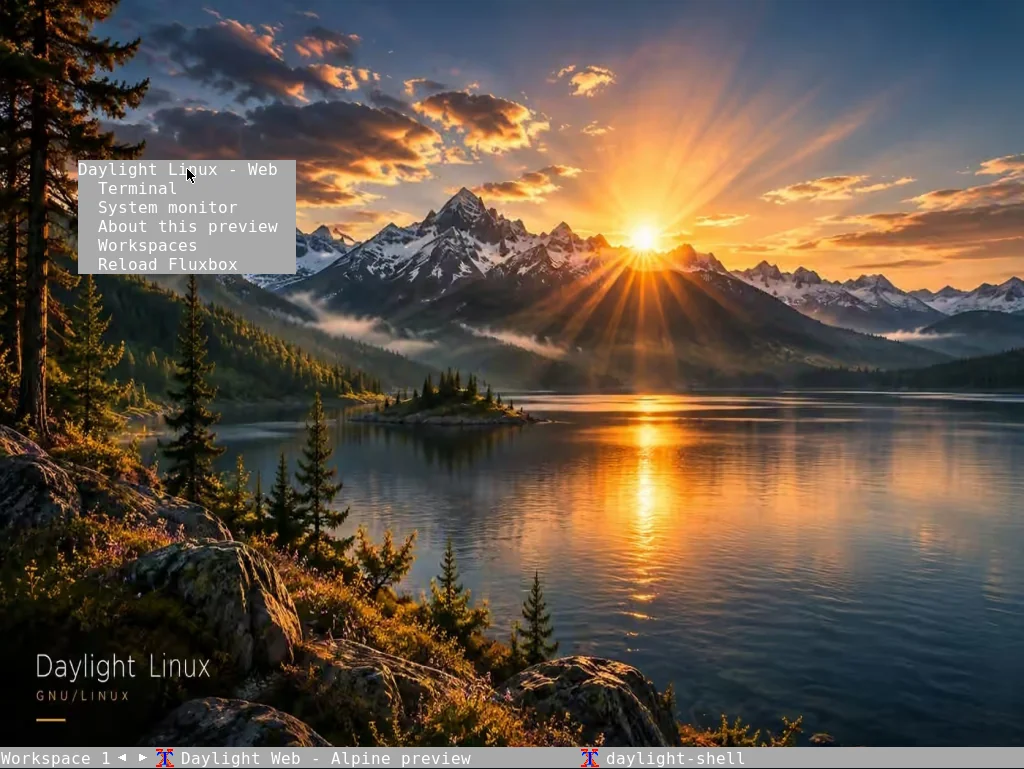
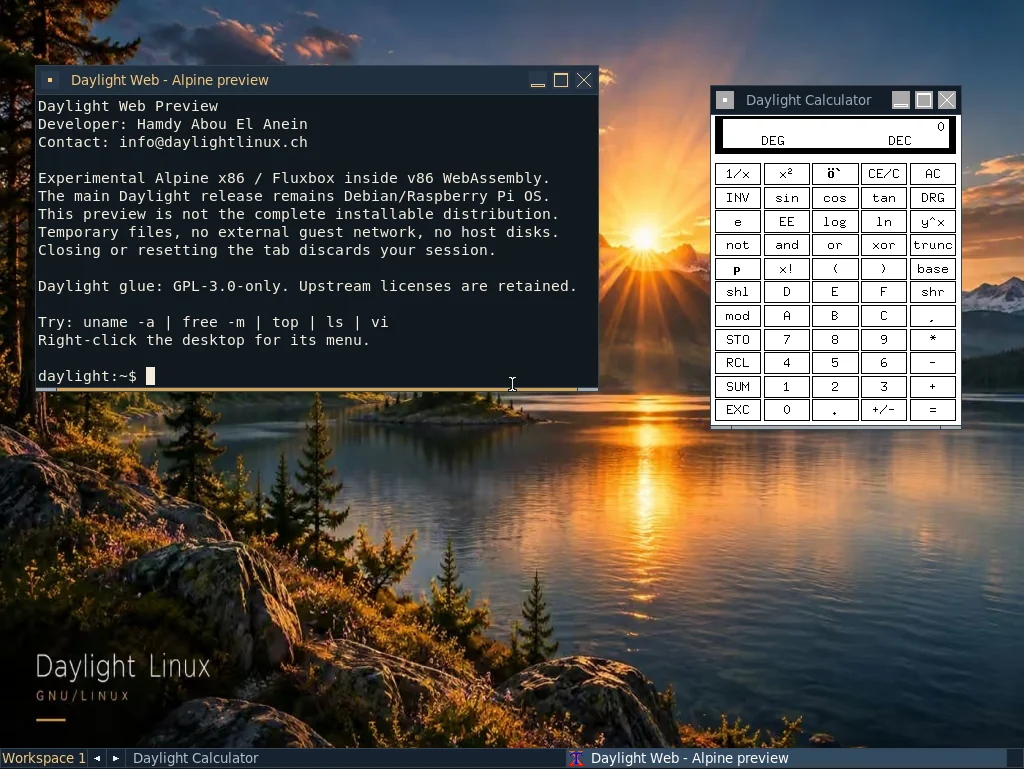
Publish native graphical applications and verified bounded transport recovery [skip ci]

diff --git a/web-live/demo.js b/web-live/demo.js
@@ -6,7 +6,7 @@ let emulator=null, generation=0, controller=null, state='idle', deadline=null, l
 let lang=new URLSearchParams(location.search).get('lang')==='en'?'en':'fr';
 const $=id=>document.getElementById(id);
 const text=(fr,en)=>lang==='fr'?fr:en;
-const english={title:'A real Linux desktop.<br>Inside your browser.',intro:'A lightweight, temporary preview of the Daylight spirit. Computing happens on your device, not on our Raspberry Pi.','scope-title':'A preview, not the complete distribution.',scope:'This experimental edition uses Alpine Linux x86 and Fluxbox. Daylight for Raspberry Pi remains based on Debian / Raspberry Pi OS ARM64. This preview does not include all of its Rust tools.',instructions:'Click inside the desktop to use the keyboard. Move windows by their title bar. Right-click the wallpaper or use Linux menu for Fluxbox. Try uname, free, top, ls and vi in the terminal.','privacy-title':'Your session stays local',privacy:'No account, no disk shared with our server, no external guest-network relay and no telemetry. Demo files download over HTTPS; the host sees that connection like any webpage request.','temporary-title':'Nothing to install',temporary:'Changes are temporary: closing, stopping or restarting discards the session. Do not enter passwords or sensitive data. The demo pauses when its tab is hidden and stops after 20 minutes.','requirements-title':'A bounded preview',requirements:'The Linux guest receives 256 MiB of RAM; the browser also needs its own memory. Startup depends on your device and connection. No public container runs on our Pi.','technical-title':'Technical details and licenses',technical:'Linux is actually emulated in WebAssembly using v86. This is not an interactive screenshot. The guest has no external network relay. Free-software components retain their own licenses.',cta:'Ready to use Daylight on your Raspberry Pi?','placeholder-text':'Your session starts here.'};
+const english={title:'A real Linux desktop.<br>Inside your browser.',intro:'A lightweight, temporary preview of the Daylight spirit. Computing happens on your device, not on our Raspberry Pi.','scope-title':'A preview, not the complete distribution.',scope:'This experimental edition uses Alpine Linux x86 and Fluxbox. Daylight for Raspberry Pi remains based on Debian / Raspberry Pi OS ARM64. This preview does not include all of its Rust tools.',instructions:'Click inside the desktop to use the keyboard. Move windows by their title bar. Right-click the wallpaper or use Linux menu for Fluxbox. Try the real graphical calculator, or use uname, free, top, ls and vi in the terminal.','privacy-title':'Your session stays local',privacy:'No account, no disk shared with our server, no external guest-network relay and no telemetry. Demo files download over HTTPS; the host sees that connection like any webpage request.','temporary-title':'Nothing to install',temporary:'Changes are temporary: closing, stopping or restarting discards the session. Do not enter passwords or sensitive data. The demo pauses when its tab is hidden and stops after 20 minutes.','requirements-title':'A bounded preview',requirements:'The Linux guest receives 256 MiB of RAM; the browser also needs its own memory. Startup depends on your device and connection. No public container runs on our Pi.','technical-title':'Technical details and licenses',technical:'Linux is actually emulated in WebAssembly using v86. This is not an interactive screenshot. The guest has no external network relay. Free-software components retain their own licenses.',cta:'Ready to use Daylight on your Raspberry Pi?','placeholder-text':'Your session starts here.'};
 const original=Object.fromEntries(Object.keys(english).map(id=>[id,$(id).innerHTML]));
 function labels(){
  document.documentElement.lang=lang;
@@ -15,7 +15,7 @@ function labels(){
  for(const [id,value] of Object.entries(lang==='en'?english:original))$(id).innerHTML=value;
  $('language').textContent=lang==='fr'?'English':'Français';
  $('start').textContent=text('Démarrer la démo','Start the demo');
- $('desktop').textContent=text('Bureau','Desktop');$('menu').textContent=text('Menu Linux','Linux menu');$('terminal').textContent='Terminal';
+ $('desktop').textContent=text('Bureau','Desktop');$('menu').textContent=text('Menu Linux','Linux menu');$('terminal').textContent='Terminal';$('calculator').textContent=text('Calculatrice','Calculator');$('about').textContent=text('À propos','About');
  $('display').setAttribute('aria-label',text('Bureau Linux interactif','Interactive Linux desktop'));
  $('pause').textContent=state==='paused'?text('Reprendre','Resume'):text('Pause','Pause');
  $('reset').textContent=text('Recommencer','Restart');$('stop').textContent=text('Arrêter','Stop');$('fullscreen').textContent=text('Plein écran','Fullscreen');
@@ -29,7 +29,7 @@ function setState(value){
  $('pause').disabled=!['running','paused'].includes(value);
  $('reset').disabled=!['running','paused','error'].includes(value);
  $('fullscreen').disabled=!['running','paused'].includes(value)||!$('display').requestFullscreen;
- for(const id of ['desktop','menu','terminal'])$(id).disabled=value!=='running';
+ for(const id of ['desktop','menu','terminal','calculator','about'])$(id).disabled=value!=='running';
  labels();
 }
 function hex(bytes){return Array.from(bytes,b=>b.toString(16).padStart(2,'0')).join('');}
@@ -37,14 +37,33 @@ async function verified(name,record,signal,onProgress){
  if(!/^[a-zA-Z0-9_.-]+$/.test(name)||!record||!Number.isSafeInteger(record.bytes)||record.bytes<1||record.bytes>100000000||!/^[a-f0-9]{64}$/.test(record.sha256))throw Error('Invalid asset manifest');
  const file=record.file||name;
  if(!/^[a-zA-Z0-9_.-]+$/.test(file))throw Error('Invalid asset filename');
- const response=await fetch(file+'?sha256='+record.sha256,{credentials:'omit',signal,cache:'force-cache'});
- if(!response.ok)throw Error('HTTP '+response.status+' for '+name);
- const reader=response.body.getReader();const chunks=[];let length=0;
- while(true){const {done,value}=await reader.read();if(done)break;length+=value.length;if(length>record.bytes)throw Error('Unexpected asset size');chunks.push(value);onProgress(value.length);}
- if(length!==record.bytes)throw Error('Incomplete asset: '+name);
- const bytes=new Uint8Array(length);let offset=0;for(const chunk of chunks){bytes.set(chunk,offset);offset+=chunk.length;}
- if(hex(new Uint8Array(await crypto.subtle.digest('SHA-256',bytes)))!==record.sha256)throw Error('Asset integrity check failed: '+name);
- return bytes.buffer;
+ // Retry transport failures only, never a bad hash or an oversized payload.
+ for(let attempt=0;attempt<3;attempt++){
+  if(signal.aborted)throw new DOMException('Cancelled','AbortError');
+  const transfer=new AbortController();
+  const cancel=()=>transfer.abort();signal.addEventListener('abort',cancel,{once:true});
+  const timeout=setTimeout(()=>transfer.abort(),90000);
+  let length=0;
+  try{
+   const response=await fetch(file+'?sha256='+record.sha256,{credentials:'omit',signal:transfer.signal,cache:'force-cache'});
+   if(!response.ok){const error=Error('HTTP '+response.status+' for '+name);error.retryable=[408,429,500,502,503,504].includes(response.status);throw error;}
+   if(!response.body)throw Error('Empty response body: '+name);
+   const reader=response.body.getReader();const chunks=[];
+   while(true){const {done,value}=await reader.read();if(done)break;if(length+value.length>record.bytes){await reader.cancel();throw Error('Unexpected asset size');}length+=value.length;chunks.push(value);onProgress(value.length);}
+   if(length!==record.bytes){const error=Error('Incomplete asset: '+name);error.retryable=true;throw error;}
+   const bytes=new Uint8Array(length);let offset=0;for(const chunk of chunks){bytes.set(chunk,offset);offset+=chunk.length;}
+   if(hex(new Uint8Array(await crypto.subtle.digest('SHA-256',bytes)))!==record.sha256)throw Error('Asset integrity check failed: '+name);
+   return bytes.buffer;
+  }catch(error){
+   if(signal.aborted)throw new DOMException('Cancelled','AbortError');
+   const network=error instanceof TypeError||error.name==='AbortError'||error.retryable===true;
+   if(!network)throw error;
+   if(attempt===2)throw Error(text('Connexion interrompue après trois essais. Vérifiez le réseau puis cliquez sur Recommencer.','Connection interrupted after three attempts. Check your network and select Restart.'));
+   if(length)onProgress(-length);
+   status(text('Connexion interrompue. Nouvel essai ','Connection interrupted. Retrying ')+(attempt+2)+'/3…');
+   await new Promise(resolve=>setTimeout(resolve,500*(attempt+1)));
+  }finally{clearTimeout(timeout);signal.removeEventListener('abort',cancel);}
+ }
 }
 async function library(manifest){
  if(window.V86)return;
@@ -118,6 +137,8 @@ function guestShortcut(code){
 $('desktop').addEventListener('click',()=>guestShortcut(0x20));
 $('menu').addEventListener('click',()=>guestShortcut(0x39));
 $('terminal').addEventListener('click',()=>guestShortcut(0x1C));
+$('calculator').addEventListener('click',()=>guestShortcut(0x2E));
+$('about').addEventListener('click',()=>guestShortcut(0x17));
 $('start').addEventListener('click',start);$('stop').addEventListener('click',stop);$('pause').addEventListener('click',pause);
 $('reset').addEventListener('click',async()=>{await stop();await start();});
 $('fullscreen').addEventListener('click',()=>{$('display').requestFullscreen().catch(error=>status(error.message));});

diff --git a/web-live/index.html b/web-live/index.html
@@ -4,10 +4,10 @@
 <body><header><a href="/fr/">Daylight GNU/Linux</a><nav><a href="/fr/raspberry-pi.html">Raspberry Pi</a><a href="/fr/install.html">Installer</a><button id="language" type="button">English</button></nav></header><main>
 <p class="eyebrow">ALPINE / FLUXBOX / WEBASSEMBLY</p><h1 id="title">Un vrai bureau Linux.<br>Dans votre navigateur.</h1><p id="intro" class="lead">Une démo légère et temporaire pour découvrir l’esprit Daylight. Le calcul s’exécute sur votre appareil, pas sur notre Raspberry Pi.</p>
 <div class="notice"><strong id="scope-title">Un aperçu, pas la distribution complète.</strong><p id="scope">Cette édition expérimentale repose sur Alpine Linux x86 et Fluxbox. Daylight pour Raspberry Pi reste basé sur Debian / Raspberry Pi OS ARM64. Cette démo n’inclut pas tous ses outils Rust.</p></div>
-<div class="toolbar"><button id="start" type="button">Démarrer la démo</button><button id="desktop" type="button" disabled>Bureau</button><button id="menu" type="button" disabled>Menu Linux</button><button id="terminal" type="button" disabled>Terminal</button><button id="pause" type="button" disabled>Pause</button><button id="reset" type="button" disabled>Recommencer</button><button id="stop" type="button" disabled>Arrêter</button><button id="fullscreen" type="button" disabled>Plein écran</button></div>
+<div class="toolbar"><button id="start" type="button">Démarrer la démo</button><button id="desktop" type="button" disabled>Bureau</button><button id="menu" type="button" disabled>Menu Linux</button><button id="terminal" type="button" disabled>Terminal</button><button id="calculator" type="button" disabled>Calculatrice</button><button id="about" type="button" disabled>À propos</button><button id="pause" type="button" disabled>Pause</button><button id="reset" type="button" disabled>Recommencer</button><button id="stop" type="button" disabled>Arrêter</button><button id="fullscreen" type="button" disabled>Plein écran</button></div>
 <p id="status" role="status" aria-live="polite">Aucun système n’est lancé avant votre clic. Environ 42 Mo à télécharger. Navigateur récent et ordinateur avec clavier recommandés.</p><progress id="progress" max="100" value="0" hidden></progress>
 <div id="display" class="display" tabindex="0" aria-label="Bureau Linux interactif"><div id="placeholder"><span>DAYLIGHT WEB</span><p id="placeholder-text">Votre session démarre ici.</p></div><div id="screen"><div class="text-screen"></div><canvas></canvas></div></div>
-<p id="instructions" class="help">Cliquez dans le bureau pour utiliser le clavier. Déplacez les fenêtres par leur titre. Clic droit sur le fond ou bouton Menu Linux : menu Fluxbox. Le terminal permet de tester uname, free, top, ls et vi.</p>
+<p id="instructions" class="help">Cliquez dans le bureau pour utiliser le clavier. Déplacez les fenêtres par leur titre. Clic droit sur le fond ou bouton Menu Linux : menu Fluxbox. Déplacez les fenêtres par leur barre de titre. La calculatrice est une vraie application graphique ; le terminal permet aussi de tester uname, free, top, ls et vi.</p>
 <section class="facts"><article><h2 id="privacy-title">Votre session reste locale</h2><p id="privacy">Pas de compte, pas de disque partagé avec le serveur, pas de relais réseau pour le système invité et pas de télémétrie. Les fichiers de la démo se téléchargent par HTTPS ; le serveur voit cette connexion comme pour une page web.</p></article><article><h2 id="temporary-title">Rien à installer</h2><p id="temporary">Les changements sont temporaires : fermer, arrêter ou recommencer détruit la session. N’y saisissez pas de mots de passe ou de données sensibles. La démo se met en pause lorsque l’onglet est masqué et se ferme après 20 minutes.</p></article><article><h2 id="requirements-title">Une démo raisonnable</h2><p id="requirements">256 Mio de mémoire sont attribués au Linux invité ; le navigateur utilise aussi sa propre mémoire. Le démarrage dépend de votre appareil et du réseau. Aucun conteneur public ne tourne sur notre Pi.</p></article></section>
 <details><summary id="technical-title">Détails et licences</summary><p id="technical">Linux est réellement émulé dans WebAssembly avec v86. Il ne s’agit pas d’une capture d’écran interactive. Le réseau externe du système invité est déconnecté. Les bibliothèques et systèmes libres gardent leurs licences.</p><p><a href="manifest.json">Manifest / SHA256</a> · <a href="packages.json">Alpine package provenance</a> · <a href="SOURCES.txt">Sources &amp; licenses</a> · <a href="https://github.com/hamdyaea/Daylight-GNU-Linux/tree/master/web-live">Daylight build recipe</a></p></details>
 <p class="cta"><a class="button" href="/fr/raspberry-pi.html" id="cta">Envie de l’utiliser sur votre Raspberry Pi ?</a></p></main><footer>Hamdy Abou El Anein · <a href="mailto:info@daylightlinux.ch">info@daylightlinux.ch</a> · <a href="/fr/privacy.html">Confidentialité</a></footer></body></html>

diff --git a/website/discovery.py b/website/discovery.py
@@ -196,11 +196,11 @@ def enhance(out, release, evidence=None):
         bodies['try-online.html'] = head(
             T('Un bureau Linux dans une fenêtre.', 'A Linux desktop inside a window.'),
             T('Ouvrez la démo, puis cliquez sur Démarrer. Aucun compte GitHub, aucune installation, aucun terminal à configurer.', 'Open the demo, then click Start. No GitHub account, no installation and no terminal setup.'))
-        bodies['try-online.html'] += section('<article class="card featured"><p class="tag">ALPINE + FLUXBOX / WEBASSEMBLY</p><h2>' + T('Un véritable bureau graphique, pas une imitation.', 'A real graphical desktop, not an imitation.') + '</h2>' + para(T('Retrouvez le paysage Daylight, des fenêtres déplaçables, la barre des tâches, un menu et un terminal. Les boutons Bureau, Menu Linux et Terminal facilitent la découverte.', 'Explore the Daylight landscape, movable windows, taskbar, menu and terminal. Desktop, Linux menu and Terminal buttons make it easier to get started.'), 'lead') + '<div class="actions">' + launch + '</div>' + para(T('Le système démarre uniquement après votre clic : environ 42 Mo à télécharger et 256 Mio de RAM pour le Linux invité, plus les besoins du navigateur. Ordinateur et clavier recommandés.', 'The system starts only after your click: about 42 MB to download and 256 MiB RAM for the Linux guest, plus browser overhead. A computer and keyboard are recommended.'), 'small note') + '</article>')
+        bodies['try-online.html'] += section('<article class="card featured"><p class="tag">ALPINE + FLUXBOX / WEBASSEMBLY</p><h2>' + T('Un véritable bureau graphique, pas une imitation.', 'A real graphical desktop, not an imitation.') + '</h2>' + para(T('Retrouvez le paysage Daylight, des fenêtres déplaçables, la barre des tâches, un menu, un terminal et une véritable calculatrice graphique. Les boutons Bureau, Menu Linux, Terminal, Calculatrice et À propos facilitent la découverte.', 'Explore the Daylight landscape, movable windows, taskbar, menu, terminal and a real graphical calculator. Desktop, Linux menu, Terminal, Calculator and About buttons make it easier to get started.'), 'lead') + '<div class="actions">' + launch + '</div>' + para(T('Le système démarre uniquement après votre clic : environ 42 Mo à télécharger et 256 Mio de RAM pour le Linux invité, plus les besoins du navigateur. Ordinateur et clavier recommandés.', 'The system starts only after your click: about 42 MB to download and 256 MiB RAM for the Linux guest, plus browser overhead. A computer and keyboard are recommended.'), 'small note') + '</article>')
         preview = ROOT / 'website/assets/web-live-preview.webp'
         if preview.is_file():
             shutil.copyfile(preview, out / 'media/web-live-preview.webp')
-            bodies['try-online.html'] += section('<figure class="shot"><img src="/media/web-live-preview.webp" alt="' + T('Capture réelle du bureau Alpine et du menu Fluxbox dans la démo web', 'Actual Alpine desktop and Fluxbox menu in the browser demo') + '" width="1024" height="768" loading="lazy"><figcaption>' + T('Capture réelle de la démo légère Alpine ; le système installé sur Raspberry Pi reste basé sur Debian.', 'Actual lightweight Alpine preview; the installable Raspberry Pi system remains Debian-based.') + '</figcaption></figure>')
+            bodies['try-online.html'] += section('<figure class="shot"><img src="/media/web-live-preview.webp" alt="' + T('Capture réelle du bureau Alpine, du terminal et de la calculatrice dans la démo web', 'Actual Alpine desktop, terminal and calculator in the browser demo') + '" width="1024" height="768" loading="lazy"><figcaption>' + T('Capture réelle de la démo légère Alpine ; le système installé sur Raspberry Pi reste basé sur Debian.', 'Actual lightweight Alpine preview; the installable Raspberry Pi system remains Debian-based.') + '</figcaption></figure>')
         bodies['try-online.html'] += section('<div class="grid two">' + card(T('Le calcul se fait chez vous.', 'Computing happens on your device.'), T('Le processeur et la mémoire utilisés sont ceux de votre navigateur. Notre Raspberry Pi distribue seulement des fichiers statiques : aucun conteneur ou bureau partagé public n’y est lancé.', 'CPU and memory come from your browser. Our Raspberry Pi only serves static files: it does not launch a public container or shared desktop.')) + card(T('Une session temporaire et isolée.', 'A temporary, isolated session.'), T('Pas de compte, pas de disque personnel partagé, pas de relais réseau externe pour l’invité et pas de télémétrie. Fermer, arrêter ou réinitialiser efface la session. N’y entrez pas de données sensibles.', 'No account, no shared personal disk, no external guest-network relay and no telemetry. Closing, stopping or resetting discards the session. Do not enter sensitive data.')) + '</div><div class="callout">' + esc(T('Cette démo expérimentale est un Alpine x86 allégé avec Fluxbox. Elle sert à découvrir l’esprit Daylight : ce n’est ni l’image Debian complète ni une émulation de Raspberry Pi, et elle n’inclut pas tous les outils Rust.', 'This experimental demo is a stripped-down Alpine x86 guest with Fluxbox. It introduces the Daylight experience: it is neither the complete Debian image nor Raspberry Pi emulation, and does not include every Rust tool.')) + '</div><div class="actions">' + button(L('raspberry-pi.html'),T('L’utiliser sur mon Raspberry Pi', 'Use it on my Raspberry Pi')) + button(L('download.html')+'#pc-live',T('Tester le live PC Debian complet', 'Try the full Debian PC live edition'),True) + '</div>')
         bodies['try-online.html'] += section('<details><summary>' + T('Option développeur : ISO complète dans un environnement privé', 'Developer option: full ISO in a private environment') + '</summary>' + para(T('Le parcours QEMU/noVNC ou Codespaces est facultatif. Codespaces ouvre un environnement de développement et demande un compte GitHub ; il peut occasionner des frais. Pour le bureau graphique public sans compte, utilisez le bouton ci-dessus.', 'QEMU/noVNC or Codespaces is optional. Codespaces opens a development environment and requires a GitHub account; charges may apply. For the public no-account graphical desktop, use the button above.')) + anchor(REPO+'/blob/master/demo/README.md',T('Documentation technique de l’option complète', 'Full-edition technical documentation')) + '</details>', 'prose')
         # Add session guidance and distinct anchors to the existing, verified installer guide.

diff --git a/web-live/test-public-access.py b/web-live/test-public-access.py
@@ -5,6 +5,8 @@
 """Read-only public access and signature checks. No host APT configuration is changed."""
 from datetime import datetime, timezone
 from email.utils import parsedate_to_datetime
+from html.parser import HTMLParser
+from urllib.parse import urljoin, urlsplit
 import hashlib
 import json
 from pathlib import Path
@@ -16,17 +18,41 @@ BASE='https://daylightlinux.ch'
 FPR='B0575F821A31DD20753DE07C50D21240F4BCB02E'
 
 
+def interface_paths(page, hashes):
+    """Return only exact, same-origin, fingerprinted resources referenced by HTML."""
+    class Resources(HTMLParser):
+        def __init__(self):
+            super().__init__(); self.urls=[]
+        def handle_starttag(self, tag, attrs):
+            values=dict(attrs)
+            if tag=='script' and values.get('src'): self.urls.append(values['src'])
+            if tag=='link' and values.get('rel')=='stylesheet': self.urls.append(values.get('href',''))
+    resources=Resources(); resources.feed(page.decode('utf-8'))
+    paths={}
+    for name, digest in hashes.items():
+        expected=BASE+'/live/'+name+'?v='+digest[:12]
+        matches=[urljoin(BASE+'/live/',value) for value in resources.urls if urlsplit(value).path.split('/')[-1]==name]
+        if matches!=[expected]: raise RuntimeError('Page references an unreviewed interface version: '+name)
+        paths[name]=expected[len(BASE):]
+    return paths
+
+
 def main():
     checks=[]
     with tempfile.TemporaryDirectory(prefix='daylight-public-check-') as temporary:
         work=Path(temporary)
         def get(path):
             target=work/('fetch-'+str(len(checks)))
-            run=subprocess.run(['curl','--disable','--fail','--silent','--show-error','--location','--proto','=https','--proto-redir','=https','--retry','2','--connect-timeout','10','--max-time','45','--max-filesize','2097152','--output',str(target),'--write-out','%{http_code} %{url_effective}',BASE+path],capture_output=True,text=True,timeout=150)
+            run=subprocess.run(['curl','--disable','--fail','--silent','--show-error','--location','--proto','=https','--proto-redir','=https','--retry','2','--connect-timeout','10','--max-time','45','--max-filesize','2097152','--dump-header',str(target)+'.headers','--output',str(target),'--write-out','%{http_code} %{url_effective}',BASE+path],capture_output=True,text=True,timeout=150)
             if run.returncode:raise RuntimeError(path+': '+run.stderr[-300:])
             status,url=run.stdout.split(' ',1)
             if status!='200' or not url.startswith(BASE+'/'):raise RuntimeError('Unexpected public route: '+path+' '+run.stdout)
-            data=target.read_bytes();checks.append({'path':path,'bytes':len(data),'status':int(status),'final_url':url})
+            data=target.read_bytes()
+            headers=Path(str(target)+'.headers').read_text().lower()
+            if 'content-type: text/html' in headers:
+                if 'no-transform' not in headers:raise RuntimeError('Public HTML permits proxy injection: '+path)
+                if b'static.cloudflareinsights.com' in data:raise RuntimeError('Unexpected analytics injection: '+path)
+            checks.append({'path':path,'bytes':len(data),'status':int(status),'final_url':url})
             return data
         landing=get('/apt')
         if b'daylight-archive-keyring.gpg' not in landing or b'binary-arm64/Packages' not in landing:raise RuntimeError('Missing APT landing-page links')
@@ -37,10 +63,12 @@ def main():
         public=json.loads(get('/live/manifest.json'))
         expected=json.loads((ROOT/'web-live/published-runtime.json').read_text())
         if public!=expected:raise RuntimeError('Public runtime differs from the source-pinned manifest')
-        for name in ['demo.js','demo.css']:
-            if hashlib.sha256(get('/live/'+name)).digest()!=hashlib.sha256((ROOT/'web-live'/name).read_bytes()).digest():raise RuntimeError('Public interface differs from reviewed source: '+name)
         page=get('/live/')
-        for marker in [b'id="desktop"',b'id="menu"',b'id="terminal"',b'id="screen"']:
+        # Follow the actual versioned resources, never stale compatibility URLs.
+        hashes={name:hashlib.sha256((ROOT/'web-live'/name).read_bytes()).hexdigest() for name in ('demo.js','demo.css')}
+        for name,path in interface_paths(page,hashes).items():
+            if hashlib.sha256(get(path)).hexdigest()!=hashes[name]:raise RuntimeError('Loaded public interface differs from reviewed source: '+name)
+        for marker in [b'id="desktop"',b'id="menu"',b'id="terminal"',b'id="calculator"',b'id="about"',b'id="screen"']:
             if marker not in page:raise RuntimeError('Missing graphical demo control')
         home=work/'gnupg';home.mkdir(mode=0o700)
         key=work/'archive.gpg';key.write_bytes(get('/apt/daylight-archive-keyring.gpg'))

diff --git a/web-live/prepare-root.py b/web-live/prepare-root.py
@@ -58,11 +58,15 @@ def main():
   if path.exists():path.chmod(mode)
   path.write_text(data);path.chmod(mode)
  shutil.copyfile(ROOT/'web-live/init',base/'init');(base/'init').chmod(0o755)
- write('root/.fluxbox/init',HEADER+'session.screen0.toolbar.tools: workspacename, prevwindow, nextwindow, iconbar, systemtray, clock\nsession.screen0.toolbar.widthPercent: 100\nsession.screen0.toolbar.placement: BottomCenter\nsession.screen0.workspaces: 2\nsession.menuFile: /root/.fluxbox/menu\nsession.keyFile: /root/.fluxbox/keys\nsession.styleFile: /usr/share/fluxbox/styles/Black\n')
- write('root/.fluxbox/menu',HEADER+'[begin] (Daylight Linux - Web)\n[exec] (Terminal) {xterm -bg "#10191f" -fg "#f5eddb" -fa "DejaVu Sans Mono" -fs 11 -e /usr/local/bin/daylight-shell}\n[exec] (System monitor) {xterm -title "System monitor" -e top}\n[exec] (About this preview) {xterm -hold -e cat /etc/daylight-preview}\n[workspaces] (Workspaces)\n[reconfig] (Reload Fluxbox)\n[end]\n')
- write('root/.fluxbox/keys',HEADER+'OnDesktop Mouse3 :RootMenu\nMod1 F4 :Close\nMod4 Return :Exec xterm -e /usr/local/bin/daylight-shell\nMod4 d :ShowDesktop\nMod4 space :RootMenu\n')
+ write('root/.fluxbox/init',HEADER+'session.screen0.toolbar.tools: workspacename, prevwindow, nextwindow, iconbar, systemtray, clock\nsession.screen0.toolbar.widthPercent: 100\nsession.screen0.toolbar.placement: BottomCenter\nsession.screen0.workspaces: 2\nsession.menuFile: /root/.fluxbox/menu\nsession.keyFile: /root/.fluxbox/keys\nsession.styleFile: /usr/share/daylight/fluxbox.style\n')
+ write('root/.fluxbox/menu',HEADER+'[begin] (Daylight Linux - Web)\n[exec] (Terminal) {xterm -bg "#10191f" -fg "#f5eddb" -fa "DejaVu Sans Mono" -fs 11 -e /usr/local/bin/daylight-shell}\n[exec] (System monitor) {xterm -title "System monitor" -e top}\n[exec] (Calculator) {xcalc -title "Daylight Calculator" -geometry 250x310+710+85}\n[exec] (About this preview) {/usr/local/bin/daylight-about}\n[workspaces] (Workspaces)\n[reconfig] (Reload Fluxbox)\n[end]\n')
+ write('root/.fluxbox/keys',HEADER+'OnDesktop Mouse3 :RootMenu\nMod1 F4 :Close\nMod4 Return :Exec xterm -e /usr/local/bin/daylight-shell\nMod4 d :ShowDesktop\nMod4 space :RootMenu\nMod4 c :Exec xcalc -title "Daylight Calculator" -geometry 250x310+710+85\nMod4 i :Exec /usr/local/bin/daylight-about\n')
  write('etc/daylight-preview','Daylight Web Preview\nDeveloper: Hamdy Abou El Anein\nContact: info@daylightlinux.ch\n\nExperimental Alpine x86 / Fluxbox inside v86 WebAssembly.\nThe main Daylight release remains Debian/Raspberry Pi OS.\nThis preview is not the complete installable distribution.\nTemporary files, no external guest network, no host disks.\nClosing or resetting the tab discards your session.\n\nDaylight glue: GPL-3.0-only. Upstream licenses are retained.\n')
  write('etc/resolv.conf','# No external guest network.\n')
+ write('usr/local/bin/daylight-about','#!/bin/sh\n'+HEADER+"exec xmessage -title 'About Daylight Web' -geometry 470x230+250+200 -bg '#172330' -fg '#f5eddb' -fn 'fixed' -buttons 'Close:0' -default Close -file /etc/daylight-preview\n",0o755)
+ style=base/'usr/share/daylight/fluxbox.style';style.parent.mkdir(parents=True,exist_ok=True)
+ shutil.copyfile(ROOT/'web-live/daylight.style',style)
+
  write('usr/local/bin/daylight-shell','#!/bin/sh\n'+HEADER+'''export HOME=/root TERM=xterm-256color PS1='daylight:~$ '
 clear
 printf '\\033[1;33m   /\\\\    DAYLIGHT LINUX\\n__/  \\\\__ WEB PREVIEW\\033[0m\\n\\n'

diff --git a/tests/test_web_live_interface.py b/tests/test_web_live_interface.py
@@ -1,0 +1,31 @@
+#!/usr/bin/env python3
+# Developer: Hamdy Abou El Anein
+# Contact: info@daylightlinux.ch
+# SPDX-License-Identifier: GPL-3.0-only
+"""Regression tests for CDN-versioned resources, without making network requests."""
+import importlib.util
+from pathlib import Path
+import unittest
+ROOT=Path(__file__).resolve().parent.parent
+spec=importlib.util.spec_from_file_location('public_access', ROOT/'web-live/test-public-access.py')
+module=importlib.util.module_from_spec(spec);spec.loader.exec_module(module)
+class Interface(unittest.TestCase):
+    def setUp(self):
+        self.hashes={'demo.js':'a'*64,'demo.css':'b'*64}
+        self.page=b'<script src="demo.js?v=aaaaaaaaaaaa"></script><link rel="stylesheet" href="demo.css?v=bbbbbbbbbbbb">'
+    def test_exact_version(self):
+        self.assertEqual(module.interface_paths(self.page,self.hashes)['demo.js'],'/live/demo.js?v=aaaaaaaaaaaa')
+    def test_same_origin_absolute(self):
+        page=self.page.replace(b'demo.js?',b'https://daylightlinux.ch/live/demo.js?')
+        self.assertEqual(len(module.interface_paths(page,self.hashes)),2)
+    def test_old_unversioned_url(self):
+        with self.assertRaises(RuntimeError):module.interface_paths(self.page.replace(b'?v=aaaaaaaaaaaa',b''),self.hashes)
+    def test_wrong_version(self):
+        with self.assertRaises(RuntimeError):module.interface_paths(self.page.replace(b'aaaaaaaaaaaa',b'cccccccccccc'),self.hashes)
+    def test_external_url(self):
+        with self.assertRaises(RuntimeError):module.interface_paths(self.page.replace(b'demo.js?',b'https://example.invalid/demo.js?'),self.hashes)
+    def test_duplicate_script(self):
+        with self.assertRaises(RuntimeError):module.interface_paths(self.page+b'<script src="demo.js?v=aaaaaaaaaaaa"></script>',self.hashes)
+    def test_missing_stylesheet(self):
+        with self.assertRaises(RuntimeError):module.interface_paths(self.page.split(b'<link')[0],self.hashes)
+if __name__=='__main__':unittest.main(verbosity=2)

diff --git a/web-live/package.py b/web-live/package.py
@@ -44,7 +44,7 @@ def main():
         for path in sorted(SOURCES.rglob('*')):
             if path.is_file() and not path.is_symlink() and not path.name.endswith('.partial'):archive.write(path,'upstream/'+str(path.relative_to(SOURCES)))
         for path in sorted((ROOT/'web-live').iterdir()):
-            if path.is_file() and (path.name=='init' or path.suffix in ('.py','.sh','.mjs','.cjs','.js','.css','.html','.json','.md','.license')):archive.write(path,'daylight/'+path.name)
+            if path.is_file() and (path.name=='init' or path.suffix in ('.py','.sh','.mjs','.cjs','.js','.css','.html','.json','.md','.license','.style')):archive.write(path,'daylight/'+path.name)
         archive.write(ROOT/'LICENSE','daylight/LICENSE-GPL-3.txt')
     license_text='''Daylight Web Preview — experimental browser edition
 Developer: Hamdy Abou El Anein

diff --git a/server/deploy-web-live.py b/server/deploy-web-live.py
@@ -33,6 +33,9 @@ def main():
     evidence=json.loads(args.evidence.read_text())
     if evidence.get('result')!='PASS' or evidence.get('realKeyboard') is not True or evidence.get('manifestSha256')!=sha(source/'manifest.json'):
         raise SystemExit('Exact-runtime browser and keyboard validation is required')
+    for name in ('index.html','demo.js','demo.css'):
+        if evidence.get('interfaceSha256',{}).get(name)!=sha(source/name):
+            raise SystemExit('Exact graphical-interface browser validation is required: '+name)
     entries=manifest['files']
     if not {'index.html','demo.js','demo.css','manifest.json','SOURCES.txt','daylight-web-sources.zip'}<=set(entries):raise SystemExit('Incomplete browser demo')
     for name,record in entries.items():

diff --git a/web-live/README.md b/web-live/README.md
@@ -5,7 +5,7 @@ Daylight glue and interface: GPL-3.0-only. Upstream licenses remain separate.
 
 ## What users get
 
-https://daylightlinux.ch/live/ opens a real graphical Linux guest without a GitHub account. Start downloads the emulator, firmware, kernel and initramfs; it then boots Alpine x86 and Fluxbox inside WebAssembly. Windows, the taskbar, the desktop menu and xterm are real guest processes. The Desktop, Linux menu and Terminal controls send fixed physical key sequences to Fluxbox.
+https://daylightlinux.ch/live/ opens a real graphical Linux guest without a GitHub account. Start downloads the emulator, firmware, kernel and initramfs; it then boots Alpine x86 and Fluxbox inside WebAssembly. Windows, the taskbar, the desktop menu, xterm, the calculator and the About dialog are real guest processes. The preview uses the same dark/gold Fluxbox theme as Daylight, not a missing upstream theme name. The Desktop, Linux menu, Terminal, Calculator and About controls send fixed physical key sequences to Fluxbox.
 
 The guest receives 256 MiB of RAM plus 8 MiB video memory. The browser/emulator needs additional memory. The six runtime payloads total about 42 MB; timing depends on the device and network. Nothing boots or downloads the guest payload before Start. Background tabs pause a running guest and the session is stopped after 20 minutes. Stop/reset/closing discards modifications. No guest network relay, shared host filesystem, account, clipboard bridge or telemetry is configured. Serving the page still exposes ordinary connection metadata to hosting/network providers.
 
@@ -38,10 +38,24 @@ Serve `dist/web-live-publish` on 127.0.0.1:34403. With Playwright and Chromium i
 node web-live/test-browser.cjs
 ```
 
-The browser check waits for actual graphical readiness, captures the canvas, types through the browser into xterm and verifies the resulting guest file, opens a second terminal, hides/restores real windows, opens the menu, and checks pause/resume/stop. It rejects external-origin requests and pre-consent guest downloads. A serial boot message alone is not sufficient.
+The browser check waits for actual graphical readiness, captures the canvas, types through the browser into xterm and verifies the resulting guest file, opens a second terminal and calculator, verifies the native About dialog, hides/restores real windows, opens the menu, and checks pause/resume/stop. It rejects external-origin requests and pre-consent guest downloads. A serial boot message alone is not sufficient.
 
 Use `DAYLIGHT_DEMO_URL=https://daylightlinux.ch/live/` to repeat it against public HTTPS. `DAYLIGHT_PLAYWRIGHT` and `DAYLIGHT_BROWSER` can point to existing project-local tools. This is not physical Safari/iOS certification; a desktop/laptop browser with keyboard and mouse is recommended.
 
 Publication uses `server/deploy-web-live.py`, requiring successful browser evidence for the exact runtime manifest. The general website deployer skips `/live` so a site rebuild cannot replace a validated runtime. Payload filenames contain content hashes; metadata and the HTML entry point are replaced last. No emulator daemon or public server-side container is launched.
 
 Upstream documentation: https://github.com/copy/v86 and https://copy.sh/v86/ .
+
+## Public HTML and CI failures
+
+The Daylight virtual host sets `Cache-Control: public, max-age=0, must-revalidate, no-transform` on HTML. This prevents a reverse proxy from injecting analytics or email-rewriting scripts into reviewed pages. The strict CSP is retained; third-party scripts are not allowlisted to make a test pass. `server/configure-static-delivery.py` applies only that scoped policy, with configuration checks, a backup and a graceful Apache reload.
+
+An actual public CI failure in run 41453755155 was caused by Cloudflare's injected RUM beacon outside Europe. The guest had reached its desktop and passed the keyboard/window tests, but the browser correctly rejected the unexpected external script. The unchanged run passed after the origin delivery policy was corrected. Old failed attempts remain in GitHub history; notifications were not disabled to hide errors.
+
+## Transport and cache regressions
+
+Runtime downloads retry transport failures at most three times, with a 90-second per-attempt deadline. Cancellation is respected. An incorrect SHA256 or oversized response is rejected immediately; no verification is bypassed. `node web-live/test-transfer.cjs` injects controlled local transport failures and tests retry recovery, integrity rejection, size bounds, cancellation and exhaustion.
+
+The public check follows the exact fingerprinted JS/CSS URLs in the current HTML, rather than testing stale unversioned CDN compatibility URLs. `python3 tests/test_web_live_interface.py` checks same-origin resource selection and rejects missing, duplicated, old or external resources.
+
+The graphical browser test polls the actual X11 mapping state of launched windows within a fixed limit instead of assuming that an emulated process is visible exactly two seconds after creation. It still fails when the expected windows do not become visible.
